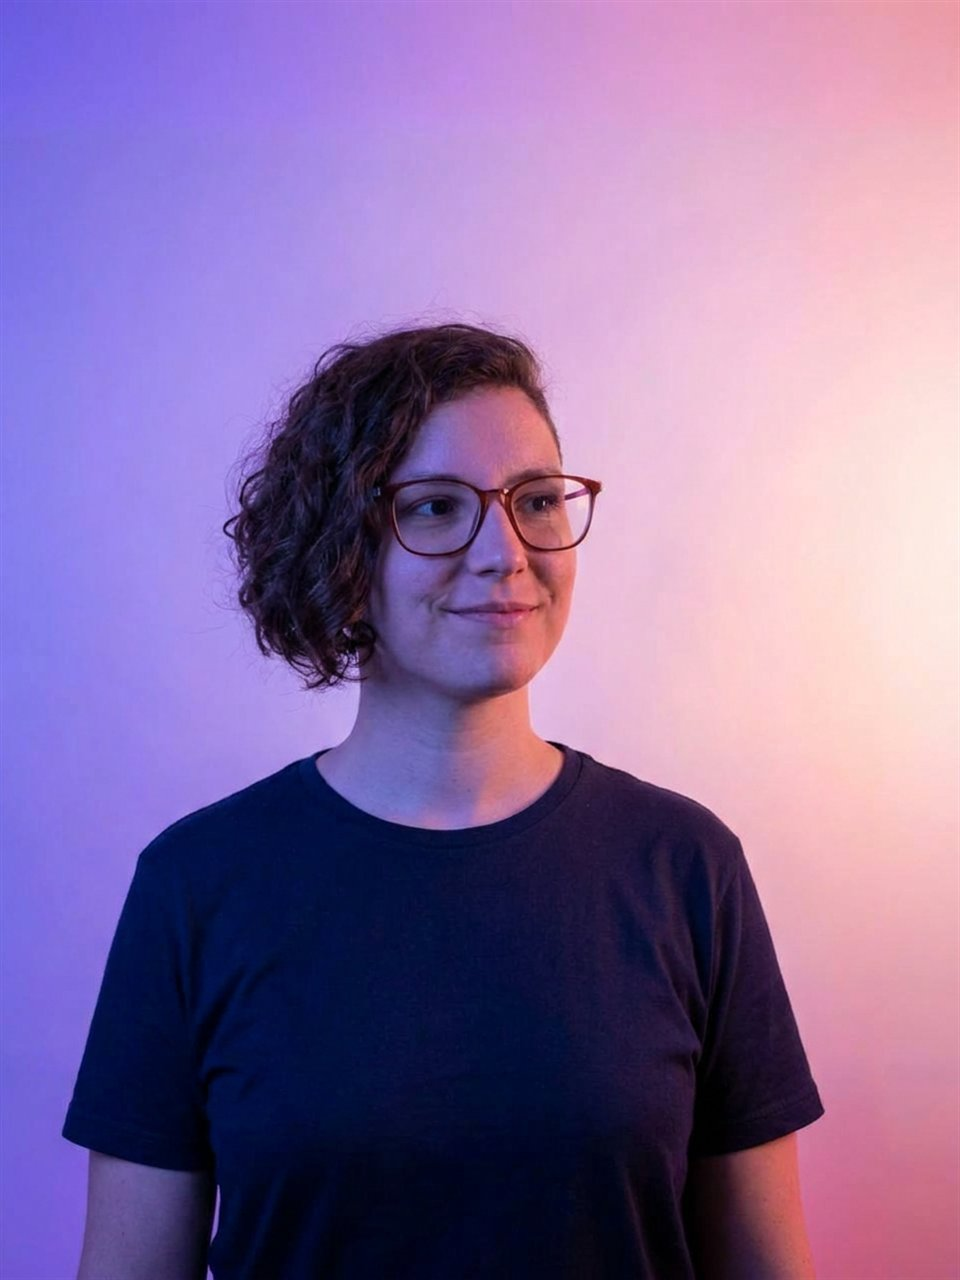
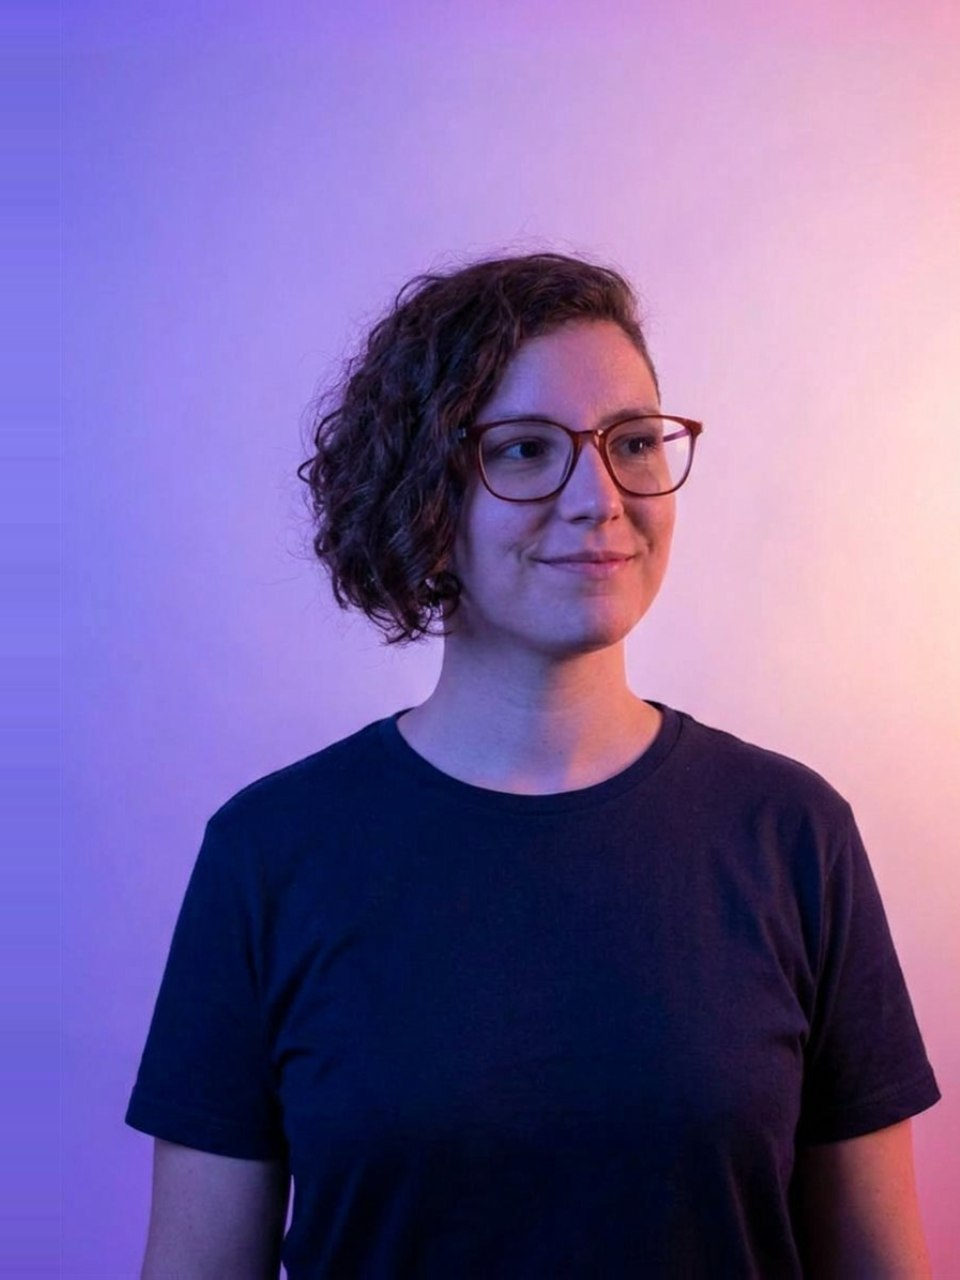
Home: enquadramento padronizado das 23 fotos do hero (mesma altura, tamanho e centro da cabeça)

diff --git a/home.html b/home.html
@@ -60,7 +60,7 @@
     </nav>
     </div>
     <div class="h-pic" id="hPic" role="img" aria-label="Instrutores da PM3 sobre fundo lilás">
-      <span class="ph on" data-nome="Giuliana Xavier" data-g="a" style="background-image:url(assets/img/hero-giuliana-r1.jpg?v=2);background-position:58% 30%"></span><span class="ph" data-nome="Guilherme Campbell" data-g="o" data-bg="assets/img/hero-guilherme-r1.jpg?v=2" style="background-position:58% 30%"></span><span class="ph" data-nome="Eliza Gurgel" data-g="a" data-bg="assets/img/hero-eliza-r2.jpg?v=2" style="background-position:58% 30%"></span><span class="ph" data-nome="Aiman Mustafa" data-g="o" data-bg="assets/img/hero-aiman-r1.jpg?v=2" style="background-position:58% 30%"></span><span class="ph" data-nome="Raphael Farinazzo" data-g="o" data-bg="assets/img/hero-farinazzo-r2.jpg?v=2" style="background-position:58% 30%"></span><span class="ph" data-nome="Fernanda Faria" data-g="a" data-bg="assets/img/hero-fernanda-r1.jpg?v=2" style="background-position:58% 30%"></span><span class="ph" data-nome="Joaquim Torres" data-g="o" data-bg="assets/img/hero-joaquim-r1.jpg?v=2" style="background-position:58% 30%"></span><span class="ph" data-nome="Aline Oliveira" data-g="a" data-bg="assets/img/hero-aline-r1.jpg?v=2" style="background-position:58% 30%"></span><span class="ph" data-nome="Gabriel Werlich" data-g="o" data-bg="assets/img/hero-gabriel-r1.jpg?v=2" style="background-position:58% 30%"></span><span class="ph" data-nome="Éfrem Maranhão" data-g="o" data-bg="assets/img/hero-efrem-r2.jpg" style="background-position:58% 30%"></span><span class="ph" data-nome="Letícia Ribeiro" data-g="a" data-bg="assets/img/hero-leticia-r1.jpg?v=2" style="background-position:58% 30%"></span><span class="ph" data-nome="Marcell Almeida" data-g="o" data-bg="assets/img/hero-marcell-r2.jpg" style="background-position:58% 30%"></span><span class="ph" data-nome="Maria Luisa Cantadori" data-g="a" data-bg="assets/img/hero-cantadori-r1.jpg" style="background-position:58% 30%"></span><span class="ph" data-nome="André Nery" data-g="o" data-bg="assets/img/hero-nery-r1.jpg" style="background-position:58% 30%"></span><span class="ph" data-nome="Natalia Arsand" data-g="a" data-bg="assets/img/hero-arsand-r1.jpg" style="background-position:58% 30%"></span><span class="ph" data-nome="Adrianno Esnarriaga" data-g="o" data-bg="assets/img/hero-adrianno-r1.jpg" style="background-position:58% 30%"></span><span class="ph" data-nome="Camila Lopes" data-g="a" data-bg="assets/img/hero-camila-r1.jpg" style="background-position:58% 30%"></span><span class="ph" data-nome="Giovanni Piton" data-g="o" data-bg="assets/img/hero-piton-r1.jpg" style="background-position:58% 30%"></span><span class="ph" data-nome="Priscilla Lugão" data-g="a" data-bg="assets/img/hero-lugao-r1.jpg" style="background-position:58% 30%"></span><span class="ph" data-nome="Will Sertório" data-g="o" data-bg="assets/img/hero-sertorio-r1.jpg" style="background-position:58% 30%"></span><span class="ph" data-nome="Gabriella Celidonio" data-g="a" data-bg="assets/img/hero-gabriella-r1.jpg" style="background-position:58% 30%"></span><span class="ph" data-nome="Rodrigo Iannuzzi" data-g="o" data-bg="assets/img/hero-iannuzzi-r1.jpg" style="background-position:58% 30%"></span><span class="ph" data-nome="Raphael Albino" data-g="o" data-bg="assets/img/hero-albino-r1.jpg" style="background-position:58% 30%"></span>
+      <span class="ph on" data-nome="Giuliana Xavier" data-g="a" style="background-image:url(assets/img/hero-giuliana-r1.jpg?v=3);background-position:50% 30%"></span><span class="ph" data-nome="Guilherme Campbell" data-g="o" data-bg="assets/img/hero-guilherme-r1.jpg?v=3" style="background-position:50% 30%"></span><span class="ph" data-nome="Eliza Gurgel" data-g="a" data-bg="assets/img/hero-eliza-r2.jpg?v=3" style="background-position:50% 30%"></span><span class="ph" data-nome="Aiman Mustafa" data-g="o" data-bg="assets/img/hero-aiman-r1.jpg?v=3" style="background-position:50% 30%"></span><span class="ph" data-nome="Raphael Farinazzo" data-g="o" data-bg="assets/img/hero-farinazzo-r2.jpg?v=3" style="background-position:50% 30%"></span><span class="ph" data-nome="Fernanda Faria" data-g="a" data-bg="assets/img/hero-fernanda-r1.jpg?v=3" style="background-position:50% 30%"></span><span class="ph" data-nome="Joaquim Torres" data-g="o" data-bg="assets/img/hero-joaquim-r1.jpg?v=3" style="background-position:50% 30%"></span><span class="ph" data-nome="Aline Oliveira" data-g="a" data-bg="assets/img/hero-aline-r1.jpg?v=3" style="background-position:50% 30%"></span><span class="ph" data-nome="Gabriel Werlich" data-g="o" data-bg="assets/img/hero-gabriel-r1.jpg?v=3" style="background-position:50% 30%"></span><span class="ph" data-nome="Éfrem Maranhão" data-g="o" data-bg="assets/img/hero-efrem-r2.jpg?v=3" style="background-position:50% 30%"></span><span class="ph" data-nome="Letícia Ribeiro" data-g="a" data-bg="assets/img/hero-leticia-r1.jpg?v=3" style="background-position:50% 30%"></span><span class="ph" data-nome="Marcell Almeida" data-g="o" data-bg="assets/img/hero-marcell-r2.jpg?v=3" style="background-position:50% 30%"></span><span class="ph" data-nome="Maria Luisa Cantadori" data-g="a" data-bg="assets/img/hero-cantadori-r1.jpg?v=3" style="background-position:50% 30%"></span><span class="ph" data-nome="André Nery" data-g="o" data-bg="assets/img/hero-nery-r1.jpg?v=3" style="background-position:50% 30%"></span><span class="ph" data-nome="Natalia Arsand" data-g="a" data-bg="assets/img/hero-arsand-r1.jpg?v=3" style="background-position:50% 30%"></span><span class="ph" data-nome="Adrianno Esnarriaga" data-g="o" data-bg="assets/img/hero-adrianno-r1.jpg?v=3" style="background-position:50% 30%"></span><span class="ph" data-nome="Camila Lopes" data-g="a" data-bg="assets/img/hero-camila-r1.jpg?v=3" style="background-position:50% 30%"></span><span class="ph" data-nome="Giovanni Piton" data-g="o" data-bg="assets/img/hero-piton-r1.jpg?v=3" style="background-position:50% 30%"></span><span class="ph" data-nome="Priscilla Lugão" data-g="a" data-bg="assets/img/hero-lugao-r1.jpg?v=3" style="background-position:50% 30%"></span><span class="ph" data-nome="Will Sertório" data-g="o" data-bg="assets/img/hero-sertorio-r1.jpg?v=3" style="background-position:50% 30%"></span><span class="ph" data-nome="Gabriella Celidonio" data-g="a" data-bg="assets/img/hero-gabriella-r1.jpg?v=3" style="background-position:50% 30%"></span><span class="ph" data-nome="Rodrigo Iannuzzi" data-g="o" data-bg="assets/img/hero-iannuzzi-r1.jpg?v=3" style="background-position:50% 30%"></span><span class="ph" data-nome="Raphael Albino" data-g="o" data-bg="assets/img/hero-albino-r1.jpg?v=3" style="background-position:50% 30%"></span>
       <span class="tag"><b>Giuliana Xavier</b><span>Instrutora PM3</span></span>
       <div class="badge"><b data-count="60" data-pre="+" data-suf=" mil">+60 mil</b><span>profissionais formados</span></div>
     </div>
